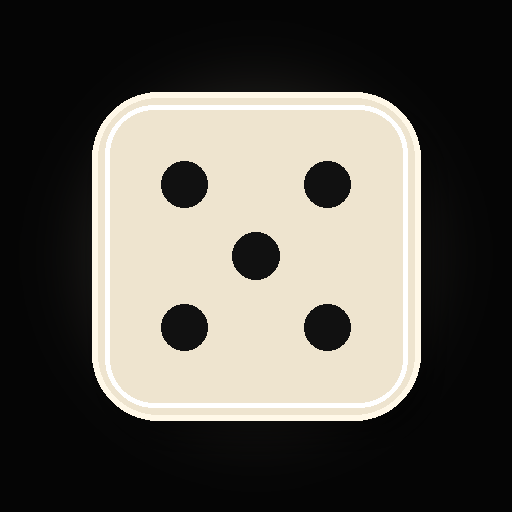
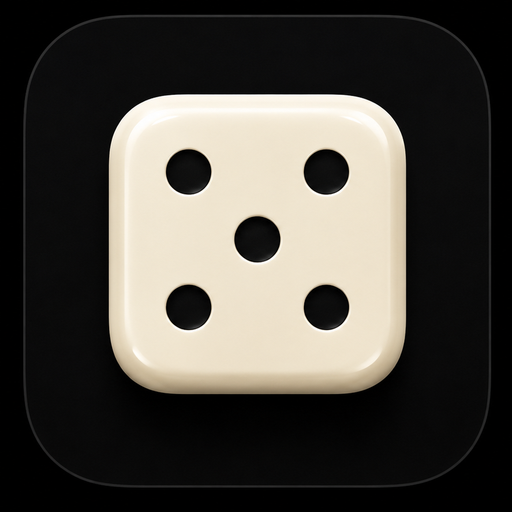
polished

diff --git a/index.html b/index.html
@@ -7,6 +7,20 @@
   <meta name="apple-mobile-web-app-capable" content="yes" />
   <meta name="apple-mobile-web-app-title" content="Tattoo Dice" />
   <title>Tattoo Dice</title>
+  <meta name="description" content="Stop rolling. Start scrolling." />
+  <meta property="og:type" content="website" />
+  <meta property="og:site_name" content="Tattoo Dice" />
+  <meta property="og:title" content="Tattoo Dice" />
+  <meta property="og:description" content="Stop rolling. Start scrolling." />
+  <meta property="og:url" content="https://tattoodice.com/" />
+  <meta property="og:image" content="https://tattoodice.com/assets/social-preview.png" />
+  <meta property="og:image:width" content="1200" />
+  <meta property="og:image:height" content="630" />
+  <meta property="og:image:alt" content="Tattoo Dice app with Wizard, Panther and Skull dice and a Roll button" />
+  <meta name="twitter:card" content="summary_large_image" />
+  <meta name="twitter:title" content="Tattoo Dice" />
+  <meta name="twitter:description" content="Stop rolling. Start scrolling." />
+  <meta name="twitter:image" content="https://tattoodice.com/assets/social-preview.png" />
   <link rel="icon" href="/assets/favicon.png" type="image/png" />
   <link rel="apple-touch-icon" href="/assets/apple-touch-icon.png" />
   <link rel="manifest" href="/manifest.json" />

diff --git a/style.css b/style.css
@@ -1951,3 +1951,23 @@ h1{
 }
 
 html,body,button,a,canvas{touch-action:manipulation;-webkit-text-size-adjust:100%;text-size-adjust:100%}
+
+
+/* v3.6.4 — settled dice edge-clipping fix
+   Keep the intro canvas untouched. Once the intro has finished, widen the
+   WebGL render surface symmetrically so the left and right dice remain fully
+   visible at their final positions. */
+.dice-stage-3d{
+  overflow:visible!important;
+}
+#sceneWrap:not(.intro-hidden):not(.intro-moving){
+  left:50%!important;
+  right:auto!important;
+  width:calc(100% + clamp(88px,24vw,150px))!important;
+  transform:translateX(-50%)!important;
+  overflow:visible!important;
+}
+#sceneWrap:not(.intro-hidden):not(.intro-moving) canvas{
+  width:100%!important;
+  height:100%!important;
+}

diff --git a/README.md b/README.md
@@ -22,3 +22,13 @@ A separate ranking interface is included at `/admin/`. See `admin/README.md` and
 - Bones added.
 - Wing is blocked from Butterfly, Eagle, Parrot, Raven and Swallow.
 - No UI, animation, Admin, PIN, progress or formula code was changed.
+
+
+## v3.6.4 — Icons, Social Preview & Dice Edge Fix
+
+- Replaced the Tattoo Dice home-screen icon with the approved ivory five-pip icon.
+- Replaced the Admin home-screen icon with the approved gold five-pip icon.
+- Added the approved 1200×630 social-link preview artwork.
+- Added Open Graph and Twitter preview metadata.
+- Fixed the settled left/right dice being clipped, while leaving the intro/drop animation untouched.
+- No deck, formula, rating, PIN, UI workflow or Admin functionality was changed.
